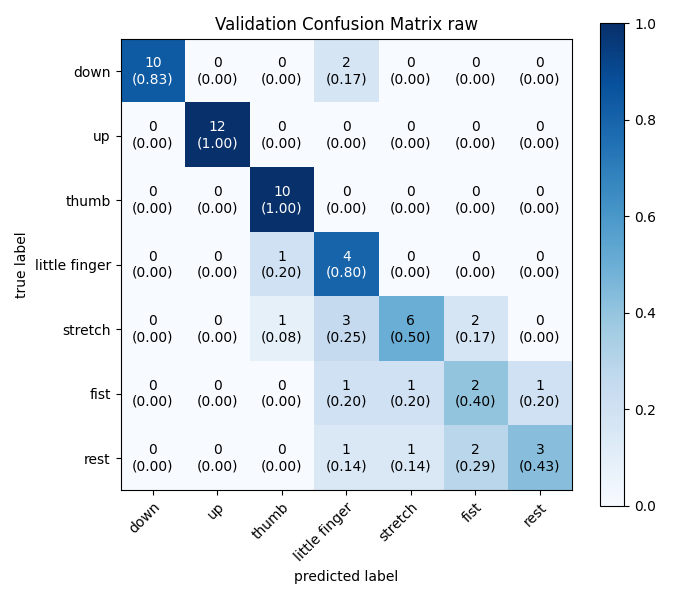
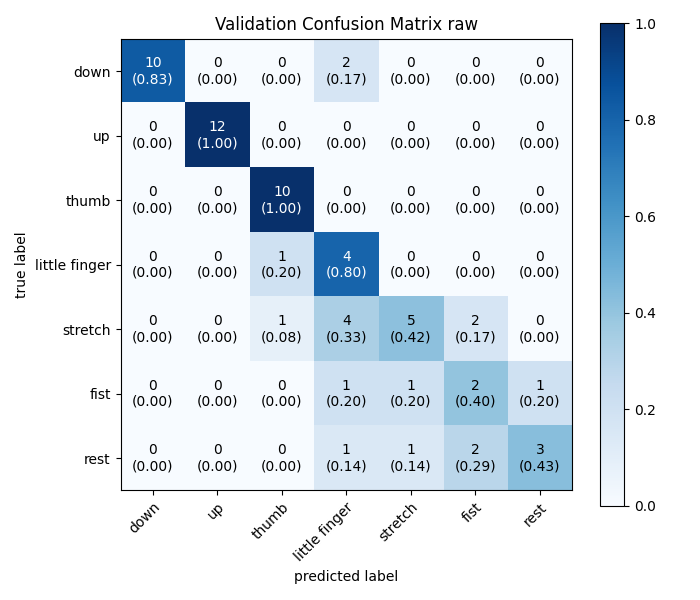
fix 4Res

Changed region(s): [[0.45, 0.48, 0.66, 0.6]]

diff --git a/4 Program/plot/draw3D.m b/4 Program/plot/draw3D.m
@@ -13,9 +13,14 @@ opts.VariableTypes = ["double", "double", "double", "double", "double", "double"
 resT = readtable("../../3 Data/materials/newCord_20.xlsx", opts, "UseExcel", false);
 res = table2array(resT);
 % disp(res);
+
+% 1, 2, 3, 4
+start_ = [2, 6, 12, 20];
+end_ = [4, 10, 18, 28];
+
 % 2, 4, 6, 8, 10
-start_ = [6, 20, 30, 44, 62];
-end_ = [10, 28, 42, 60, 82];
+% start_ = [6, 20, 30, 44, 62];
+% end_ = [10, 28, 42, 60, 82];
 % all
 % start_ = [2, 6, 12, 20, 30, 44, 62];
 % end_ = [4, 10, 18, 28, 42, 60, 82];
@@ -23,7 +28,7 @@ end_ = [10, 28, 42, 60, 82];
 xx = [];
 yy = [];
 zz = [];
-for i = 1: 5
+for i = 1: 4
     len = res(start_(i), 1);
     for j = start_(i):end_(i)
         for k = 2:11

diff --git a/4 Program/BT_pyServer/interface.py b/4 Program/BT_pyServer/interface.py
@@ -7,8 +7,8 @@ class interface:
         print("")
         self.ser = BT.bluetooth()
         # COM adi: 12, ban: 5
-        while(not self.ser.do_connect("COM5")):
-            self.ser.do_connect("COM5")
+        while(not self.ser.do_connect("COM6")):
+            self.ser.do_connect("COM6")
         self.write('0')
 
     def read(self):
